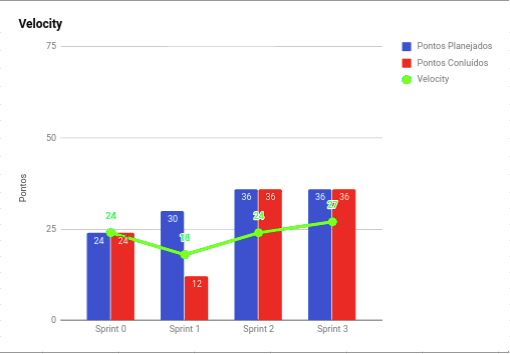
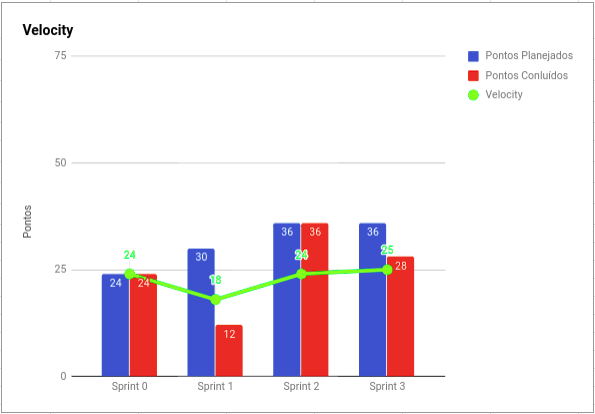
Updating velocity of sprint 3

diff --git a/sprints/sprint3/resultado.md b/sprints/sprint3/resultado.md
@@ -4,7 +4,9 @@
 
 ### 1.1 Fechamento da Sprint 
 
-**Pontos concluídos: 36 pontos**
+**Pontos concluídos: 28 pontos**
+<br>
+**Dívida Técnica: 8 pontos**
 
 | Atividade | Situação |
 | --------  | :----:   |
@@ -43,3 +45,6 @@
 
 # 2. Visão do Tech Leader
 
+
+
+As práticas ágeis foram aplicadas, com reuniões diárias via Telegram e reuniões semanais de planejamento ocorrida no início da sprint. Além das reuniões de retrospectiva e revisão ocorridas no final da sprint. Essas reuniões ocorrem todos os sábados presencialmente. 
